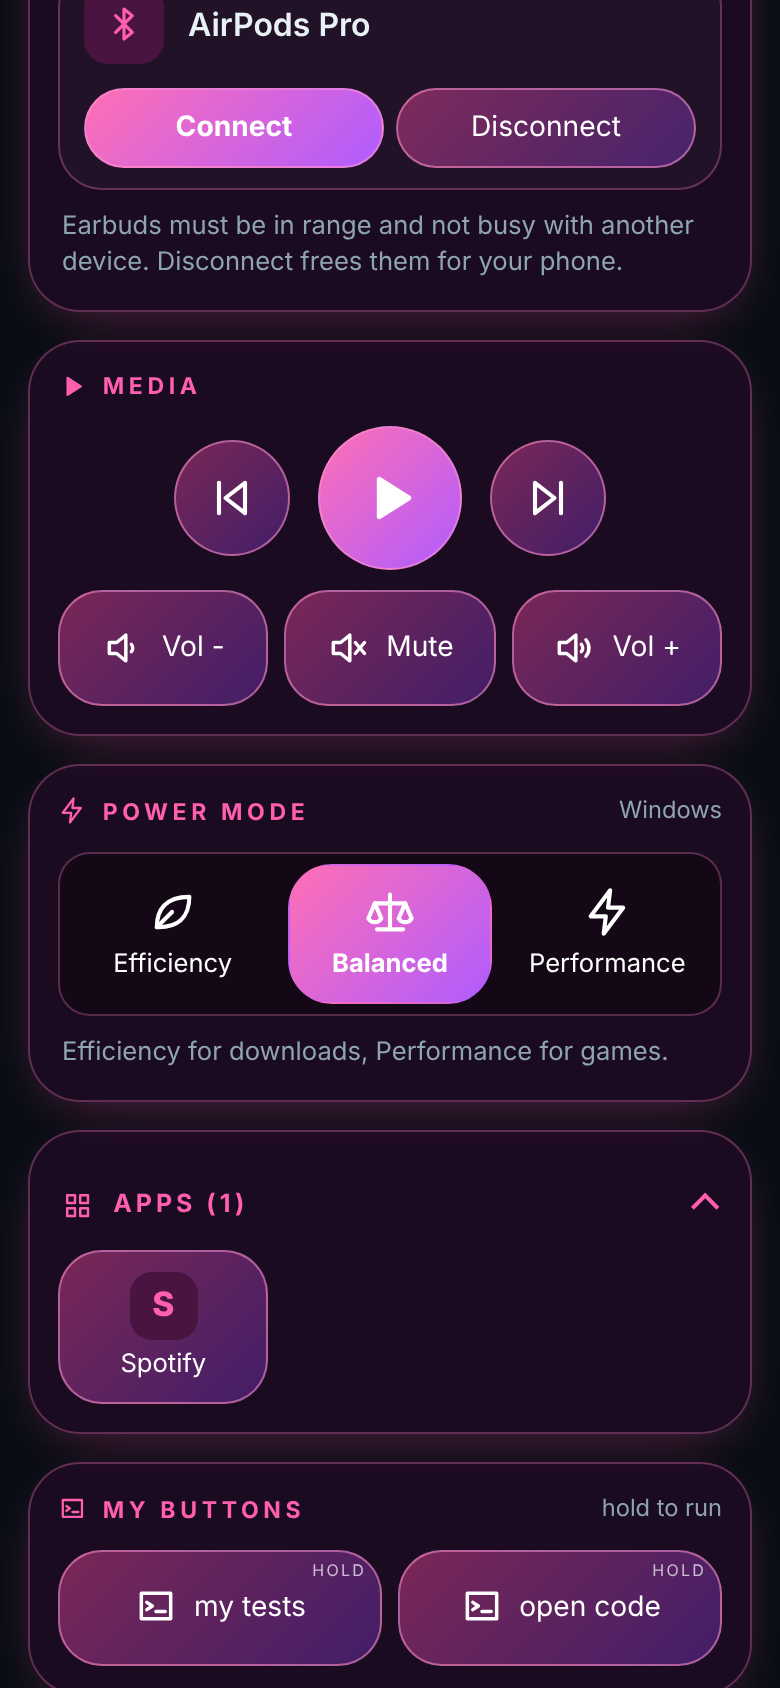
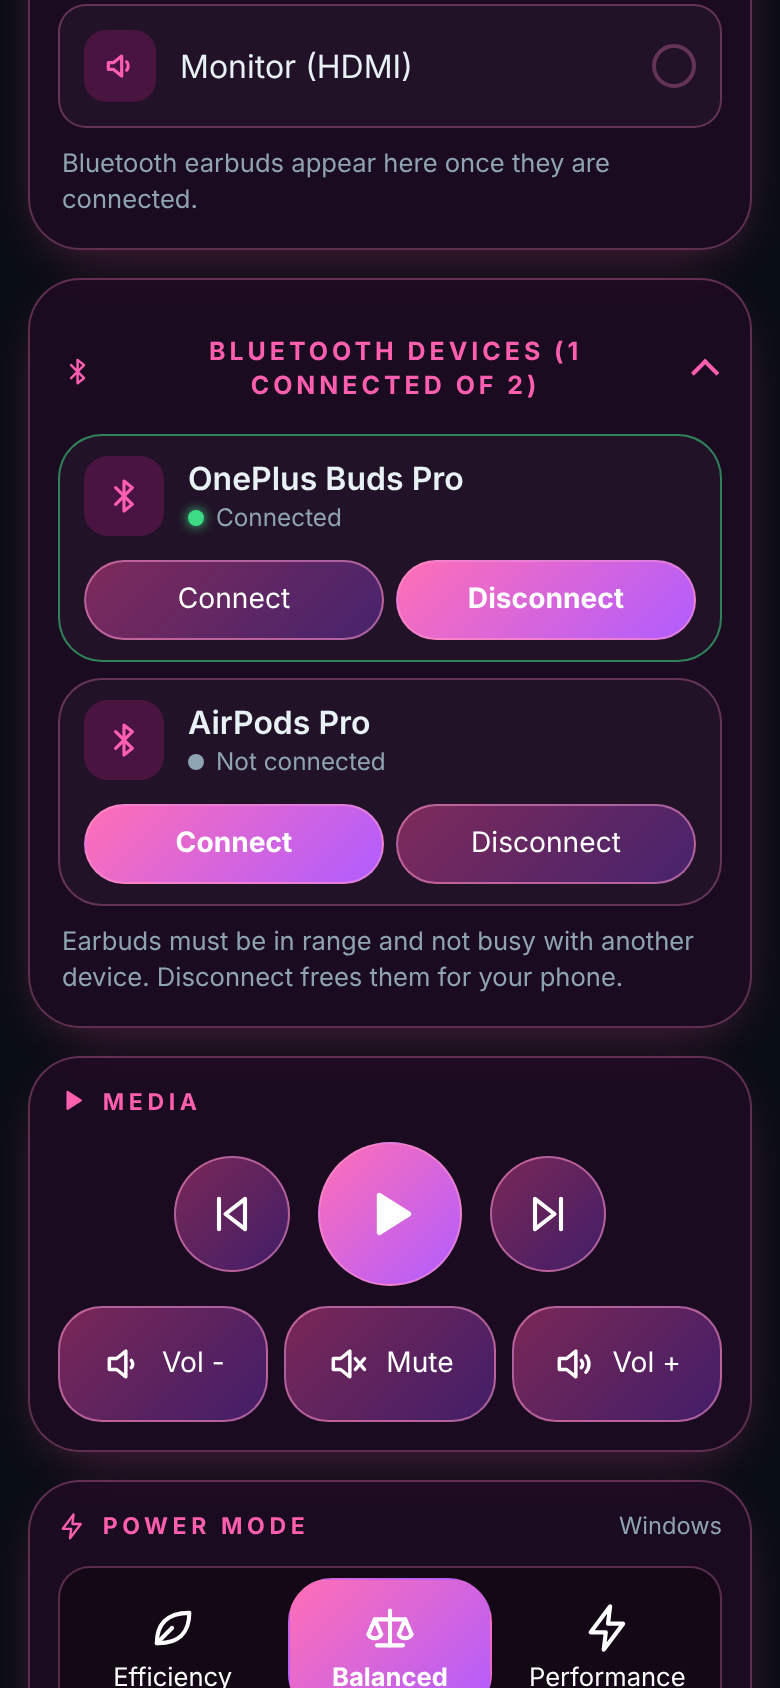
Bluetooth: show and verify the real connected state
Claude-Session: https://claude.ai/code/session_012UQxDSXoho6XEbKP234m17

diff --git a/src/web/app.js b/src/web/app.js
@@ -647,20 +647,24 @@ function render() {
     if (!heads.length) btIn.append(el('div', 'empty', 'No paired Bluetooth devices found. Pair your earbuds with this PC in Windows first.'))
     else {
       const list = el('div', 'list')
+      const on = pc.btConnected || []
       for (const name of heads) {
-        const item = el('div', 'item stack')
+        const isOn = on.includes(name)
+        const item = el('div', 'item stack' + (isOn ? ' connected' : ''))
         const ic = el('div', 'ic')
         ic.append(icon('bluetooth'))
-        item.append(ic, el('div', 'nm', name))
+        const nm = el('div', 'nm', name)
+        nm.append(el('small', 'btstat' + (isOn ? ' on' : ''), isOn ? 'Connected' : 'Not connected'))
+        item.append(ic, nm)
         const acts = el('div', 'acts')
-        acts.append(btn('Connect', () => act('bt_connect', name), false, undefined, 'go'), btn('Disconnect', () => act('bt_disconnect', name)))
+        acts.append(btn('Connect', () => act('bt_connect', name), false, undefined, isOn ? '' : 'go'), btn('Disconnect', () => act('bt_disconnect', name), false, undefined, isOn ? 'go' : ''))
         item.append(acts)
         list.append(item)
       }
       btIn.append(list)
       btIn.append(el('div', 'note', 'Earbuds must be in range and not busy with another device. Disconnect frees them for your phone.'))
     }
-    bt.append(acc('bt', heads.length ? 'Bluetooth devices (' + heads.length + ')' : 'Bluetooth devices', btIn, 'bluetooth'))
+    bt.append(acc('bt', heads.length ? 'Bluetooth devices (' + ((pc.btConnected || []).length ? (pc.btConnected || []).length + ' connected of ' : '') + heads.length + ')' : 'Bluetooth devices', btIn, 'bluetooth'))
     const btCard = bt
 
     // -- sound output ----------------------------------------------------------------------

diff --git a/src/web/app.css b/src/web/app.css
@@ -218,3 +218,8 @@ select.field{max-width:190px}
 .drop.over{border-color:var(--accent,#4da3ff);color:var(--text,#fff)}
 .warn{border:1px solid #ffb020;background:rgba(255,176,32,.12);color:#ffd27a;border-radius:12px;padding:12px 14px;font-size:.88rem;line-height:1.4}
 .warn::before{content:"\26A0\FE0F  ";}
+.btstat{display:block;font-size:.78rem;color:var(--muted)}
+.btstat::before{content:"";display:inline-block;width:8px;height:8px;border-radius:50%;background:var(--muted);margin-right:6px}
+.btstat.on{color:#3ddc84}
+.btstat.on::before{background:#3ddc84;box-shadow:0 0 6px #3ddc84}
+.item.connected{border-color:rgba(61,220,132,.55)}

diff --git a/context.md b/context.md
@@ -155,3 +155,6 @@ Rules: one logical change per commit; run the tests before pushing; keep PowerSh
 - iOS Safari kept showing a BLUE icon after "Add to Home Screen" (probably a cached picture for the same address): the icon addresses now carry the theme (/apple-touch-icon-neon.png, /icon-neon.svg, manifest icon-192-neon.png) and the pages fill {{ICON}} per PC theme, so a new colour is always a new address. Old /icon-192.png etc. still work. If a phone still shows blue: remove the shortcut, reload the page, add again (iPhone: Settings > Safari > Clear History and Website Data once).
 
 - Home-screen shortcut name = this PC name (config.name, else the computer name; letters/digits only, max 30): page <title>, apple-mobile-web-app-title and the manifest name/short_name use shortcutName() (server.mjs, {{NAME}} in index.html). Existing shortcuts keep their old name: remove and add again.
+
+## Bluetooth shows the real connection state (owner, 2026-11-19)
+- BT_LIST now returns "name<TAB>True|False" (Get-PnpDeviceProperty DEVPKEY_Device_IsConnected {83DA6326-97A6-4088-9453-A1923F573B29} 15; any entry of the device true = connected). actions.info() has headphones (names) + btConnected (names). Cache 5 s. bt_connect/bt_disconnect poll up to ~8 s and answer "X is connected." only when Windows really shows it, else "not connected yet" (honest). Page: green "Connected" / grey "Not connected" per device, the matching button is highlighted, title "(1 connected of 2)". Untested on real hardware: the IsConnected property can read False for some devices; if so send the output of the Get-PnpDeviceProperty line.
